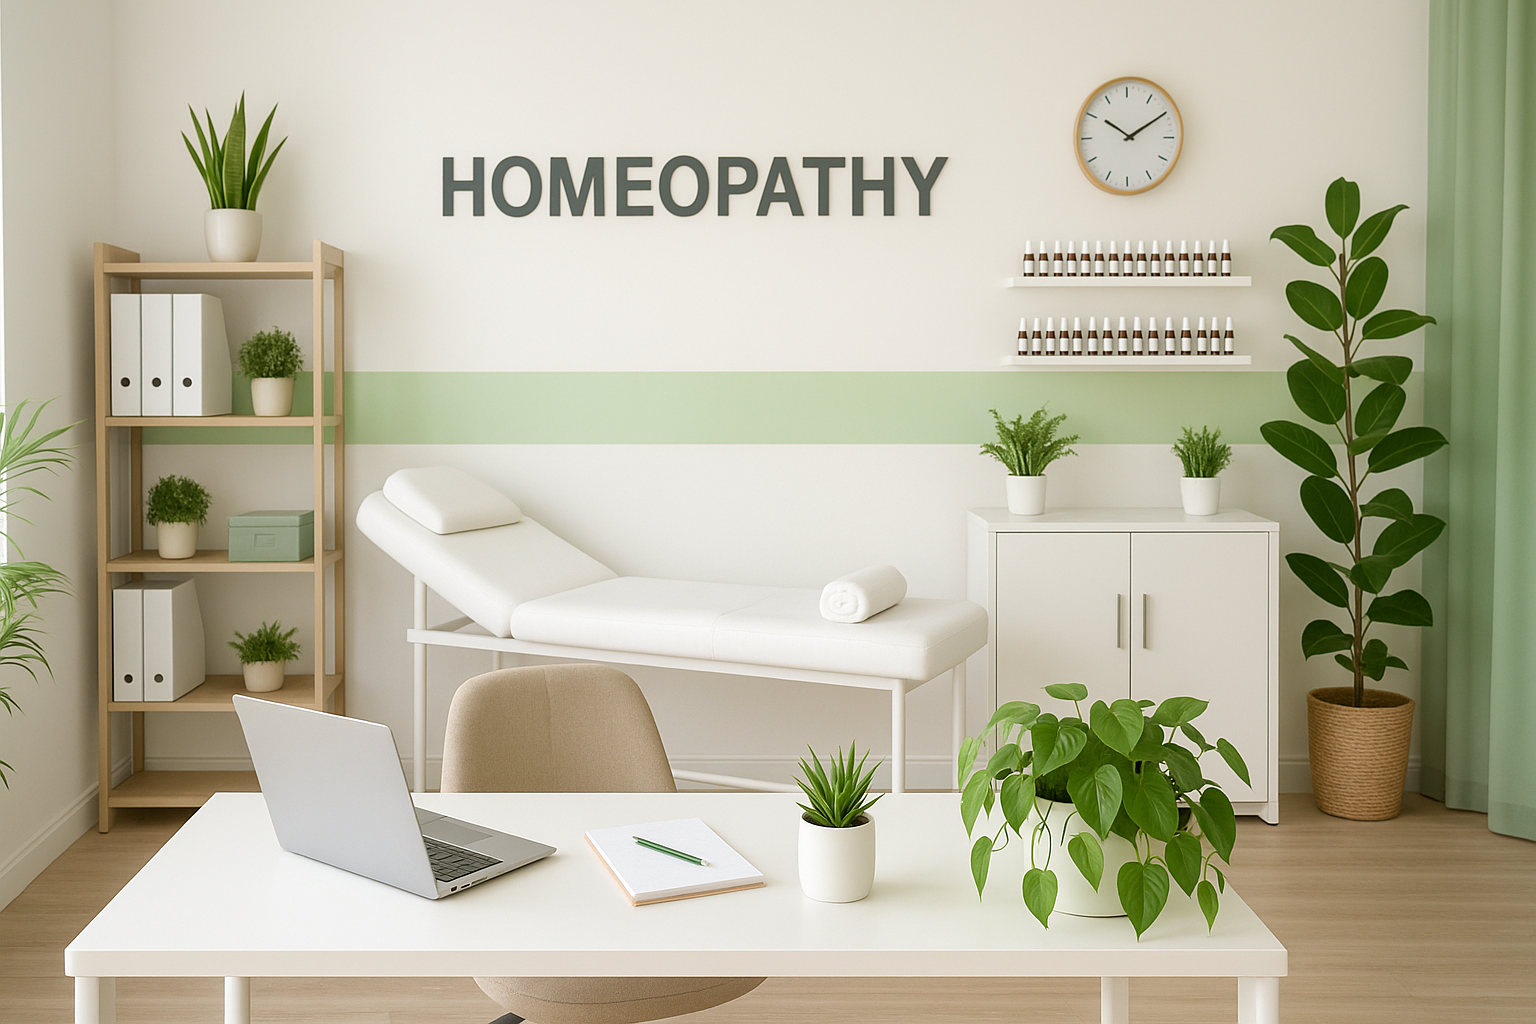
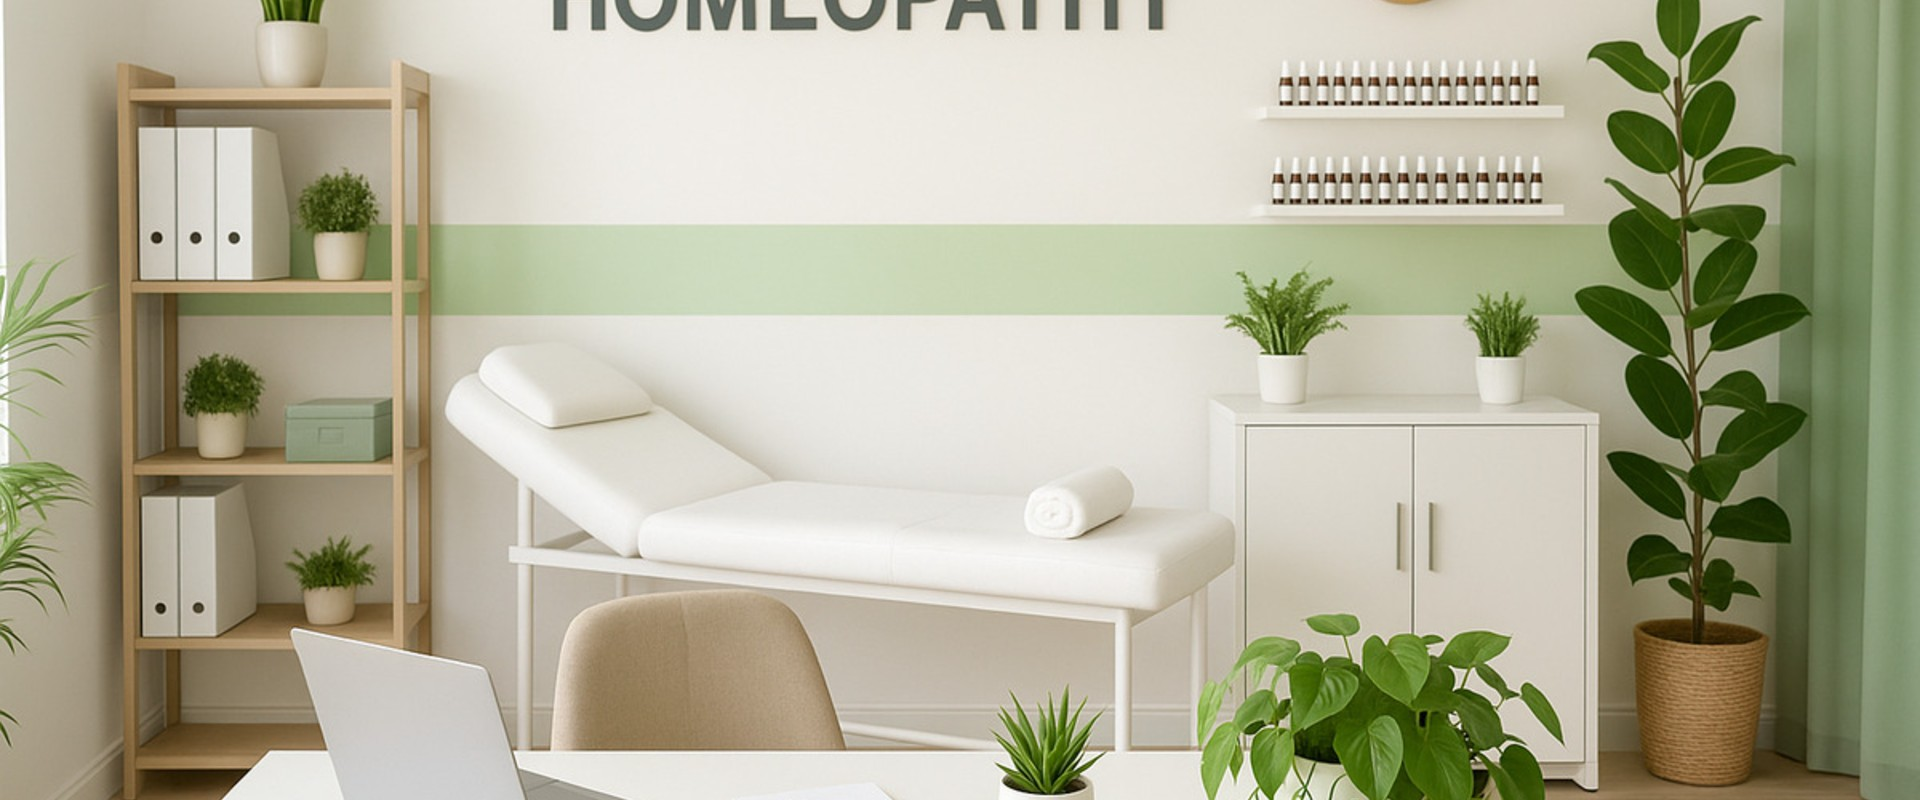
Update hero section styles and decreased its height for better view
- Adjusted min-height and padding for the hero section to improve layout.
- Updated the hero background image for enhanced visual appeal.

diff --git a/css/style.css b/css/style.css
@@ -50,8 +50,8 @@ body {
 .hero-section {
     background: linear-gradient(rgba(255, 255, 255, 0.9), rgba(255, 255, 255, 0.9)),
                 url('../images/hero-bg.jpg') center/cover;
-    padding-top: 120px;
-    min-height: 100vh;
+    /* padding-top: 50px; */
+    min-height: 60vh;
     display: flex;
     align-items: center;
     position: relative;
@@ -232,6 +232,10 @@ footer {
         max-width: 44px;
         margin-top: 0;
         margin-bottom: 0;
+    }
+    .hero-section {
+        min-height: 45vh;
+        padding-top: 80px;
     }
 }
 
